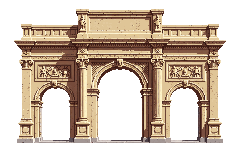
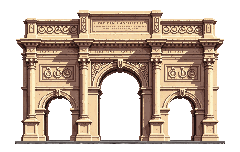
fix(merveilles): fin des contre-plongees + regle de projection + ombre de contact
Retour de Raphael : la carte regarde vers le bas, les monuments vus en
contre-plongee la contredisent.

- REGENERES en "leger surplomb" (verticales paralleles, surfaces hautes
  visibles) : era_kingdom t3/t4 (anneau crenele a gemmes ; anneau-diademe
  or/pourpre a interieur TRANSPARENT — on voit le sol de la carte a
  travers) et era_empire t3/t4/t5 (triple arc ; colossal a quadrige +
  tentures pourpres ; Arc Eternel enfilade en plongee douce, remplace le
  provisoire et rejoint arc-t5-candidats/e-enfilade-plongee.png).
- REGLE DE PROJECTION gravee dans README wonders + REPRISE : jamais de
  contre-plongee, orthographique frontal avec soupcon de plongee, prompt
  type documente.
- OMBRE DE CONTACT dessinee par le moteur sous chaque merveille px
  (convention arbres : ellipse plate decalee bas-droite) — seule
  exception a "aucun habillage procedural". C'est l'etage 2 de la
  proposition d'integration ; etage 3 (parvis au sol de la carte) en
  reserve.
- Anims recalees : glints gemmes kingdom t3/t4, tentures pourpres empire
  t4 re-croppees/re-animees (custom-start), glow + glints chevaux t5.
  Verifie en jeu (diffs a now differents).

diff --git a/src/game/map/renderBuildings.js b/src/game/map/renderBuildings.js
@@ -467,12 +467,20 @@ function drawWonder(w, idx, now) {
   const tint = CM_TINTS[CM.dynastyIdx % CM_TINTS.length];
 
   // Merveille pixel-art : le sprite EST tout le monument. Aucun habillage
-  // procédural (esplanade, aura, ombre portée, torches, stèles, particules,
-  // couronne orbitale, faisceau nocturne, bannière) — seules les flammes
-  // overlay animent la scène. L'érection (e<1) écrase le sprite qui pousse.
+  // procédural (esplanade, aura, torches, stèles, particules, couronne
+  // orbitale, faisceau nocturne, bannière) — seules les flammes overlay
+  // animent la scène. L'érection (e<1) écrase le sprite qui pousse.
+  // UNE exception : l'ombre de contact au sol, même convention que les
+  // arbres pixel-art (ellipse plate décalée bas-droite, lumière haut-gauche).
+  // C'est elle qui « pose » le billboard frontal sur la carte top-down —
+  // sans elle le monument flotte comme un décor de carton.
   if (px) {
     if (H < 3) return;
     ctx.globalAlpha = e;
+    ctx.fillStyle = "rgba(18,13,6,0.24)";
+    ctx.beginPath();
+    ctx.ellipse(cxs + W * 0.05, baseY - s * 0.04, W * 0.46, W * 0.10, 0, 0, Math.PI * 2);
+    ctx.fill();
     drawWonderPixelSprite(w.id, px, tier, cxs, baseY, W, H, e, now);
     ctx.globalAlpha = 1;
     return;

diff --git a/public/pixelart/wonders/README.md b/public/pixelart/wonders/README.md
@@ -7,6 +7,24 @@ Chaque merveille a **5 paliers** (rang I → V). Le sprite doit grandir à chaqu
 palier et être **très grand au palier V**. Évolutions + animations conservées.
 Lumière en HAUT-GAUCHE → ombres en BAS-DROITE (règle globale de la carte).
 
+## RÈGLE DE PROJECTION (2026-07-03, après l'audit d'angle)
+La carte regarde vers le BAS ; un monument vu en CONTRE-PLONGÉE la contredit.
+1. **JAMAIS de contre-plongée** : verticales strictement parallèles, aucun
+   dessous de corniche/attique visible, pas de point de fuite vers le haut.
+2. **Orthographique frontal, idéalement un soupçon de plongée** : les surfaces
+   horizontales HAUTES (dessus de corniches, intérieur d'un anneau, dos d'un
+   quadrige) légèrement visibles — comme les toits des maisons de la carte.
+3. Prompt type : « seen from slightly above, the camera a little higher than
+   the monument looking gently down, top surfaces slightly visible, vertical
+   lines strictly parallel, no upward perspective » (view "side" PixelLab).
+4. **Ancrage au sol** : le moteur dessine une OMBRE DE CONTACT elliptique sous
+   chaque merveille pixel-art (même convention que les arbres, décalée
+   bas-droite) — c'est la seule exception à « aucun habillage procédural ».
+5. Les ouvertures traversantes (arches, intérieur d'anneau) restent
+   TRANSPARENTES : voir le sol de la carte à travers renforce l'intégration.
+   ⚠ strip-bg ne vide pas les zones encloses (intérieur d'anneau) — flood
+   dédié nécessaire.
+
 | # | id | Nom | Icône | Débloquée par | Paliers (seuils métrique) | Réapparaît à l'ère |
 |---|----|-----|-------|----------------|---------------------------|--------------------|
 | 1 | `dynasty1` | Le Mausolée du Fondateur | mausoleum | Première dynastie fondée | 1 / 50 / 200 / 400 / 750 dynasties (rééchelonné 2026-07-02, sim ~540-634 dyn/partie) | 2 |

diff --git a/REPRISE-merveilles.md b/REPRISE-merveilles.md
@@ -12,6 +12,23 @@ convention `<id>-t<rang>.png`, suivi).
 
 ---
 
+## RÈGLE DE PROJECTION (2026-07-03 — retour de Raphaël sur les contre-plongées)
+
+La carte regarde vers le BAS. Verdicts et remèdes appliqués :
+- **JAMAIS de contre-plongée** (verticales convergentes, dessous de corniches) —
+  c'était le cas des t3/t4 kingdom et t3/t4 empire → tous RÉGÉNÉRÉS en
+  « léger surplomb » (prompt : seen from slightly above… vertical lines strictly
+  parallel, no upward perspective ; view "side" marche mieux que "low top-down"
+  qui change trop la composition).
+- **Ombre de contact** dessinée par le moteur sous chaque merveille px (même
+  convention que les arbres : ellipse plate, décalée bas-droite) — SEULE
+  exception à « aucun habillage procédural ». C'est elle qui pose le billboard.
+- **Ouvertures traversantes transparentes** (arches, intérieur d'anneau du
+  kingdom t4) : le sol de la carte se voit à travers → intégration forte.
+  ⚠ strip-bg ne vide pas les zones ENCLOSES → flood dédié depuis le centre.
+- Proposition d'étage 3 NON réalisée (en réserve si besoin) : peindre un PARVIS
+  dallé au niveau du SOL de la carte sous l'emprise (couche terrain, pas sprite).
+
 ## Règles verrouillées (validées par Raphaël)
 
 1. **Toutes les merveilles DE FACE** : prompt PixelLab = « seen directly from the front,
